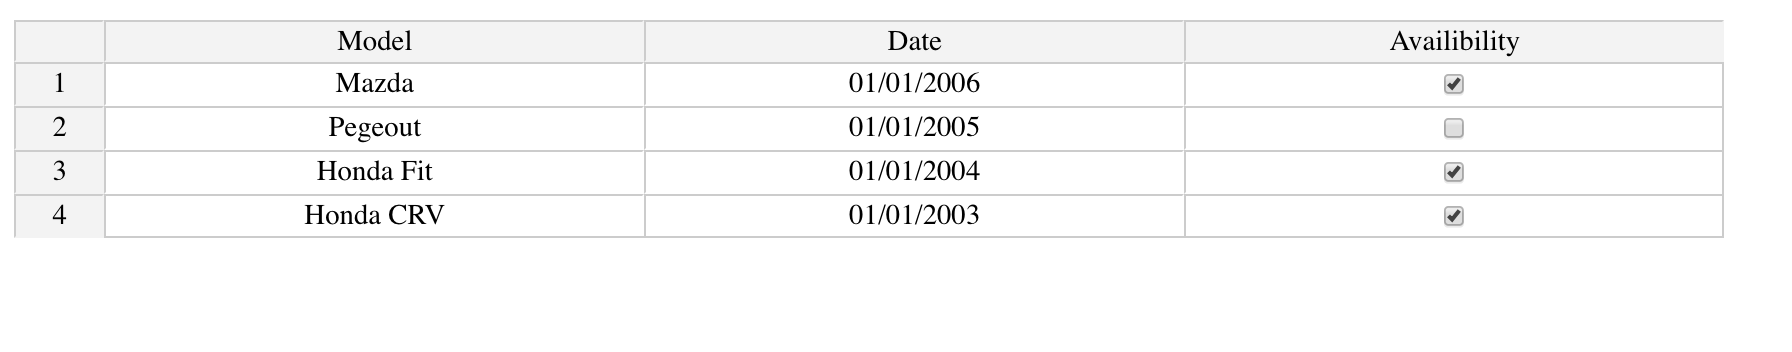
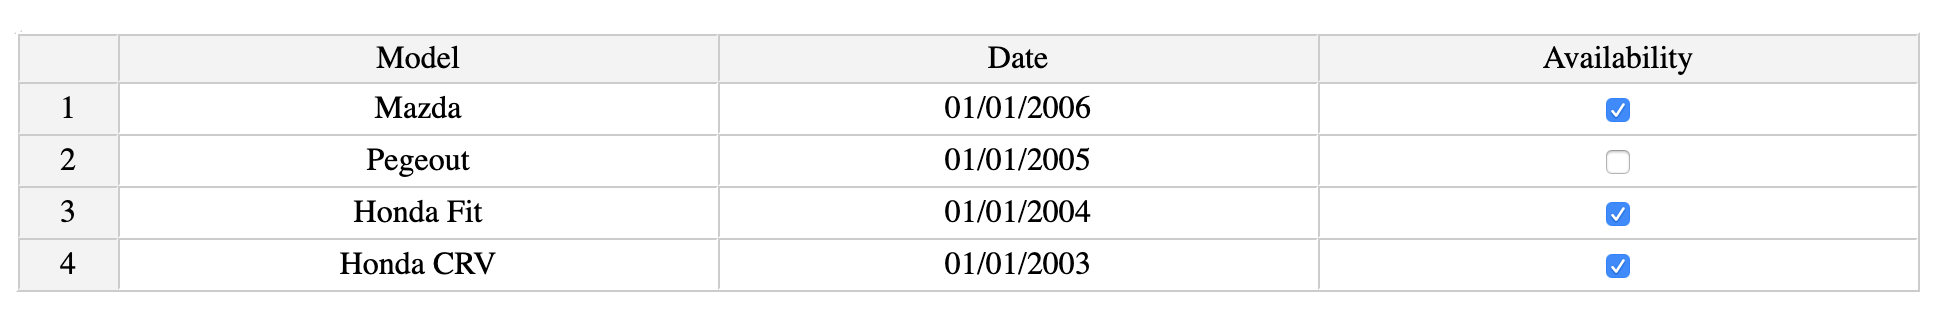
Fix typos

diff --git a/docs/index.html b/docs/index.html
@@ -72,7 +72,7 @@
 <div id="excelr" class="section level1">
 <div class="page-header"><h1 class="hasAnchor">
 <a href="#excelr" class="anchor"></a>excelR</h1></div>
-<p>An R interface to ‘jExcel’ JavaScript library, which is a lightweight vanilla javascript plugin to create web-based interactive tables and spreadsheets compatible with Excel or any other spreadsheet software.</p>
+<p>An R interface to ‘jExcel’ JavaScript library, which is a lightweight vanilla JavaScript plugin to create web-based interactive tables and spreadsheets compatible with Excel or any other spreadsheet software.</p>
 <div id="installation" class="section level2">
 <h2 class="hasAnchor">
 <a href="#installation" class="anchor"></a>Installation</h2>
@@ -105,7 +105,7 @@
 <span id="cb4-4"><a href="#cb4-4"></a>                   <span class="dt">Date=</span><span class="kw"><a href="https://www.rdocumentation.org/packages/base/topics/c">c</a></span>(<span class="st">'2006-01-01'</span>, <span class="st">'2005-01-01'</span>,<span class="st">'2004-01-01'</span>, <span class="st">'2003-01-01'</span> ),</span>
 <span id="cb4-5"><a href="#cb4-5"></a>                   <span class="dt">Availability =</span> <span class="kw"><a href="https://www.rdocumentation.org/packages/base/topics/c">c</a></span>(<span class="ot">TRUE</span>, <span class="ot">FALSE</span>, <span class="ot">TRUE</span>, <span class="ot">TRUE</span>))</span>
 <span id="cb4-6"><a href="#cb4-6"></a></span>
-<span id="cb4-7"><a href="#cb4-7"></a> columns =<span class="st"> </span><span class="kw"><a href="https://www.rdocumentation.org/packages/base/topics/data.frame">data.frame</a></span>(<span class="dt">title=</span><span class="kw"><a href="https://www.rdocumentation.org/packages/base/topics/c">c</a></span>(<span class="st">'Model'</span>, <span class="st">'Date'</span>, <span class="st">'Availibility'</span>),</span>
+<span id="cb4-7"><a href="#cb4-7"></a> columns =<span class="st"> </span><span class="kw"><a href="https://www.rdocumentation.org/packages/base/topics/data.frame">data.frame</a></span>(<span class="dt">title=</span><span class="kw"><a href="https://www.rdocumentation.org/packages/base/topics/c">c</a></span>(<span class="st">'Model'</span>, <span class="st">'Date'</span>, <span class="st">'Availability'</span>),</span>
 <span id="cb4-8"><a href="#cb4-8"></a>                      <span class="dt">width=</span> <span class="kw"><a href="https://www.rdocumentation.org/packages/base/topics/c">c</a></span>(<span class="dv">300</span>, <span class="dv">300</span>, <span class="dv">300</span>),</span>
 <span id="cb4-9"><a href="#cb4-9"></a>                      <span class="dt">type=</span><span class="kw"><a href="https://www.rdocumentation.org/packages/base/topics/c">c</a></span>(<span class="st">'text'</span>, <span class="st">'calendar'</span>, <span class="st">'checkbox'</span>)) </span>
 <span id="cb4-10"><a href="#cb4-10"></a> <span class="kw"><a href="reference/excelTable.html">excelTable</a></span>(<span class="dt">data=</span>data, <span class="dt">columns =</span> columns)</span></code></pre></div>
@@ -126,7 +126,7 @@
 <li><a href="#search">Search</a></li>
 <li><a href="#excel-formulas">Excel formulas</a></li>
 <li><a href="#style">Style</a></li>
-<li><a href="#shiny-integartion">Shiny Integration</a></li>
+<li><a href="#shiny-integration">Shiny Integration</a></li>
 </ol>
 <div id="different-types-of-columns" class="section level4">
 <h4 class="hasAnchor">
@@ -152,7 +152,7 @@
 <span id="cb6-3"><a href="#cb6-3"></a> data =<span class="st"> </span><span class="kw"><a href="https://www.rdocumentation.org/packages/base/topics/data.frame">data.frame</a></span>(<span class="dt">Model =</span> <span class="kw"><a href="https://www.rdocumentation.org/packages/base/topics/c">c</a></span>(<span class="st">'Mazda'</span>, <span class="st">'Pegeout'</span>, <span class="st">'Honda Fit'</span>, <span class="st">'Honda CRV'</span>),</span>
 <span id="cb6-4"><a href="#cb6-4"></a>                   <span class="dt">Availability =</span> <span class="kw"><a href="https://www.rdocumentation.org/packages/base/topics/c">c</a></span>(<span class="ot">TRUE</span>, <span class="ot">FALSE</span>, <span class="ot">TRUE</span>, <span class="ot">TRUE</span>))</span>
 <span id="cb6-5"><a href="#cb6-5"></a></span>
-<span id="cb6-6"><a href="#cb6-6"></a> columns =<span class="st"> </span><span class="kw"><a href="https://www.rdocumentation.org/packages/base/topics/data.frame">data.frame</a></span>(<span class="dt">title=</span><span class="kw"><a href="https://www.rdocumentation.org/packages/base/topics/c">c</a></span>(<span class="st">'Model'</span>, <span class="st">'Availibility'</span>),</span>
+<span id="cb6-6"><a href="#cb6-6"></a> columns =<span class="st"> </span><span class="kw"><a href="https://www.rdocumentation.org/packages/base/topics/data.frame">data.frame</a></span>(<span class="dt">title=</span><span class="kw"><a href="https://www.rdocumentation.org/packages/base/topics/c">c</a></span>(<span class="st">'Model'</span>, <span class="st">'Availability'</span>),</span>
 <span id="cb6-7"><a href="#cb6-7"></a>                      <span class="dt">width=</span> <span class="kw"><a href="https://www.rdocumentation.org/packages/base/topics/c">c</a></span>(<span class="dv">300</span>, <span class="dv">300</span>),</span>
 <span id="cb6-8"><a href="#cb6-8"></a>                      <span class="dt">type=</span><span class="kw"><a href="https://www.rdocumentation.org/packages/base/topics/c">c</a></span>(<span class="st">'text'</span>, <span class="st">'checkbox'</span>)) </span>
 <span id="cb6-9"><a href="#cb6-9"></a> <span class="kw"><a href="reference/excelTable.html">excelTable</a></span>(<span class="dt">data=</span>data, <span class="dt">columns =</span> columns)</span></code></pre></div>
@@ -208,7 +208,7 @@
 <span id="cb10-4"><a href="#cb10-4"></a>                   <span class="dt">Date=</span><span class="kw"><a href="https://www.rdocumentation.org/packages/base/topics/c">c</a></span>(<span class="st">'2006-01-01'</span>, <span class="st">'2005-01-01'</span>,<span class="st">'2004-01-01'</span>, <span class="st">'2003-01-01'</span> ),</span>
 <span id="cb10-5"><a href="#cb10-5"></a>                   <span class="dt">Availability =</span> <span class="kw"><a href="https://www.rdocumentation.org/packages/base/topics/c">c</a></span>(<span class="ot">TRUE</span>, <span class="ot">FALSE</span>, <span class="ot">TRUE</span>, <span class="ot">TRUE</span>))</span>
 <span id="cb10-6"><a href="#cb10-6"></a></span>
-<span id="cb10-7"><a href="#cb10-7"></a> columns =<span class="st"> </span><span class="kw"><a href="https://www.rdocumentation.org/packages/base/topics/data.frame">data.frame</a></span>(<span class="dt">title=</span><span class="kw"><a href="https://www.rdocumentation.org/packages/base/topics/c">c</a></span>(<span class="st">'Model'</span>, <span class="st">'Date'</span>, <span class="st">'Availibility'</span> ),</span>
+<span id="cb10-7"><a href="#cb10-7"></a> columns =<span class="st"> </span><span class="kw"><a href="https://www.rdocumentation.org/packages/base/topics/data.frame">data.frame</a></span>(<span class="dt">title=</span><span class="kw"><a href="https://www.rdocumentation.org/packages/base/topics/c">c</a></span>(<span class="st">'Model'</span>, <span class="st">'Date'</span>, <span class="st">'Availability'</span> ),</span>
 <span id="cb10-8"><a href="#cb10-8"></a>                      <span class="dt">width=</span> <span class="kw"><a href="https://www.rdocumentation.org/packages/base/topics/c">c</a></span>(<span class="dv">300</span>, <span class="dv">300</span>, <span class="dv">300</span>),</span>
 <span id="cb10-9"><a href="#cb10-9"></a>                      <span class="dt">type=</span><span class="kw"><a href="https://www.rdocumentation.org/packages/base/topics/c">c</a></span>(<span class="st">'text'</span>, <span class="st">'calendar'</span>, <span class="st">'checkbox'</span>)) </span>
 <span id="cb10-10"><a href="#cb10-10"></a> <span class="kw"><a href="reference/excelTable.html">excelTable</a></span>(<span class="dt">data=</span>data, <span class="dt">columns =</span> columns, <span class="dt">rowResize =</span> <span class="ot">TRUE</span>)</span></code></pre></div>
@@ -223,7 +223,7 @@
 <span id="cb11-4"><a href="#cb11-4"></a>                   <span class="dt">Date=</span><span class="kw"><a href="https://www.rdocumentation.org/packages/base/topics/c">c</a></span>(<span class="st">'2006-01-01'</span>, <span class="st">'2005-01-01'</span>,<span class="st">'2004-01-01'</span>, <span class="st">'2003-01-01'</span> ),</span>
 <span id="cb11-5"><a href="#cb11-5"></a>                   <span class="dt">Availability =</span> <span class="kw"><a href="https://www.rdocumentation.org/packages/base/topics/c">c</a></span>(<span class="ot">TRUE</span>, <span class="ot">FALSE</span>, <span class="ot">TRUE</span>, <span class="ot">TRUE</span>))</span>
 <span id="cb11-6"><a href="#cb11-6"></a></span>
-<span id="cb11-7"><a href="#cb11-7"></a> columns =<span class="st"> </span><span class="kw"><a href="https://www.rdocumentation.org/packages/base/topics/data.frame">data.frame</a></span>(<span class="dt">title=</span><span class="kw"><a href="https://www.rdocumentation.org/packages/base/topics/c">c</a></span>(<span class="st">'Model'</span>, <span class="st">'Date'</span>, <span class="st">'Availibility'</span> ),</span>
+<span id="cb11-7"><a href="#cb11-7"></a> columns =<span class="st"> </span><span class="kw"><a href="https://www.rdocumentation.org/packages/base/topics/data.frame">data.frame</a></span>(<span class="dt">title=</span><span class="kw"><a href="https://www.rdocumentation.org/packages/base/topics/c">c</a></span>(<span class="st">'Model'</span>, <span class="st">'Date'</span>, <span class="st">'Availability'</span> ),</span>
 <span id="cb11-8"><a href="#cb11-8"></a>                      <span class="dt">width=</span> <span class="kw"><a href="https://www.rdocumentation.org/packages/base/topics/c">c</a></span>(<span class="dv">300</span>, <span class="dv">300</span>, <span class="dv">300</span>),</span>
 <span id="cb11-9"><a href="#cb11-9"></a>                      <span class="dt">type=</span><span class="kw"><a href="https://www.rdocumentation.org/packages/base/topics/c">c</a></span>(<span class="st">'text'</span>, <span class="st">'calendar'</span>, <span class="st">'checkbox'</span>)) </span>
 <span id="cb11-10"><a href="#cb11-10"></a> <span class="kw"><a href="reference/excelTable.html">excelTable</a></span>(<span class="dt">data=</span>data, <span class="dt">columns =</span> columns, <span class="dt">rowDrag =</span> <span class="ot">TRUE</span>, <span class="dt">columnDrag =</span> <span class="ot">TRUE</span>)</span></code></pre></div>
@@ -305,9 +305,9 @@
 <span id="cb17-11"><a href="#cb17-11"></a> <span class="kw"><a href="reference/excelTable.html">excelTable</a></span>(<span class="dt">data=</span>data, <span class="dt">columns =</span> columns, <span class="dt">style =</span> style)</span></code></pre></div>
 <p><img src="inst/images/style.png"></p>
 </div>
-<div id="shiny-integartion" class="section level3">
+<div id="shiny-integration" class="section level3">
 <h3 class="hasAnchor">
-<a href="#shiny-integartion" class="anchor"></a>Shiny Integration</h3>
+<a href="#shiny-integration" class="anchor"></a>Shiny Integration</h3>
 <div class="sourceCode" id="cb18"><pre class="sourceCode r"><code class="sourceCode r"><span id="cb18-1"><a href="#cb18-1"></a>  <span class="kw"><a href="https://www.rdocumentation.org/packages/base/topics/library">library</a></span>(shiny)</span>
 <span id="cb18-2"><a href="#cb18-2"></a>  <span class="kw"><a href="https://www.rdocumentation.org/packages/base/topics/library">library</a></span>(excelR)</span>
 <span id="cb18-3"><a href="#cb18-3"></a></span>

diff --git a/docs/reference/excelTable.html b/docs/reference/excelTable.html
@@ -150,7 +150,7 @@ in columns is specified, the latter will take precedence.</p></td>
     <tr>
       <th>rowHeight</th>
       <td><p>a dataframe or matrix specifying height of different rows. The first column is consists of numerical value the
-specifiesthe row number while the second column is also numerical value that specifies the height in pixels.</p></td>
+specifies the row number while the second column is also numerical value that specifies the height in pixels.</p></td>
     </tr>
     <tr>
       <th>nestedHeaders</th>
@@ -267,7 +267,7 @@ a vector of css styles to be applied.</p></td>
                   <span class='kw'>Availability</span> <span class='kw'>=</span> <span class='fu'><a href='https://www.rdocumentation.org/packages/base/topics/c'>c</a></span>(<span class='fl'>TRUE</span>, <span class='fl'>FALSE</span>, <span class='fl'>TRUE</span>, <span class='fl'>TRUE</span>))
 
 
-<span class='no'>columns</span> <span class='kw'>=</span> <span class='fu'><a href='https://www.rdocumentation.org/packages/base/topics/data.frame'>data.frame</a></span>(<span class='kw'>title</span><span class='kw'>=</span><span class='fu'><a href='https://www.rdocumentation.org/packages/base/topics/c'>c</a></span>(<span class='st'>'Model'</span>, <span class='st'>'Date'</span>, <span class='st'>'Availibility'</span>),
+<span class='no'>columns</span> <span class='kw'>=</span> <span class='fu'><a href='https://www.rdocumentation.org/packages/base/topics/data.frame'>data.frame</a></span>(<span class='kw'>title</span><span class='kw'>=</span><span class='fu'><a href='https://www.rdocumentation.org/packages/base/topics/c'>c</a></span>(<span class='st'>'Model'</span>, <span class='st'>'Date'</span>, <span class='st'>'Availability'</span>),
                      <span class='kw'>width</span><span class='kw'>=</span> <span class='fu'><a href='https://www.rdocumentation.org/packages/base/topics/c'>c</a></span>(<span class='fl'>300</span>, <span class='fl'>300</span>, <span class='fl'>300</span>),
                      <span class='kw'>type</span><span class='kw'>=</span><span class='fu'><a href='https://www.rdocumentation.org/packages/base/topics/c'>c</a></span>(<span class='st'>'text'</span>, <span class='st'>'calendar'</span>, <span class='st'>'checkbox'</span>))
 

diff --git a/README.md b/README.md
@@ -1,5 +1,5 @@
 # excelR
-An R interface to 'jExcel' JavaScript library, which is a lightweight vanilla javascript plugin to create web-based interactive tables and spreadsheets compatible with Excel or any other spreadsheet software.
+An R interface to 'jExcel' JavaScript library, which is a lightweight vanilla JavaScript plugin to create web-based interactive tables and spreadsheets compatible with Excel or any other spreadsheet software.
 
 ## Installation
 
